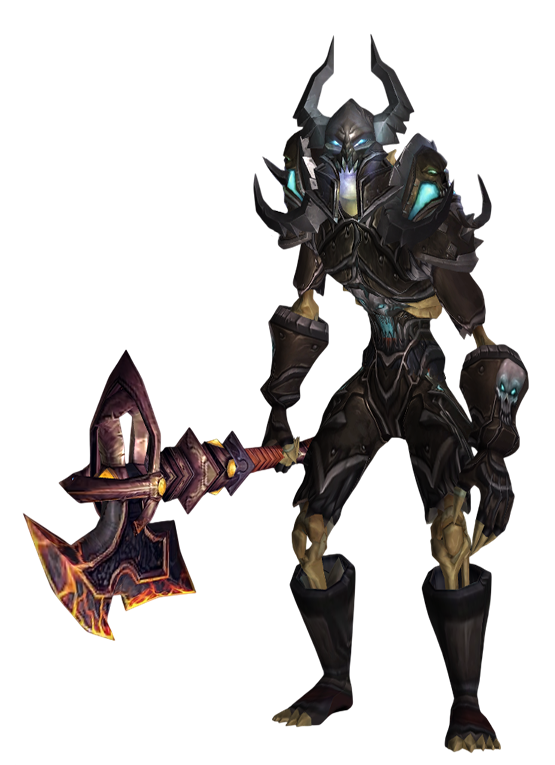
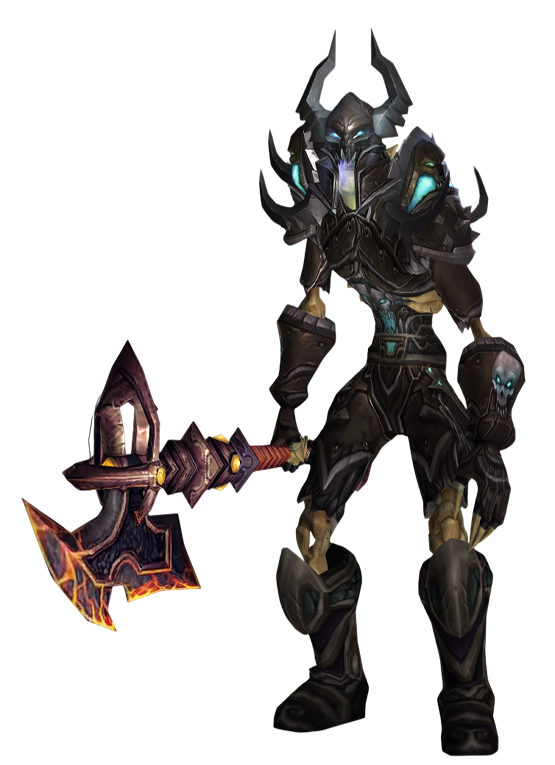
Добавил лк брони для дк

Changed region(s): [[0.0306, 0.0301, 0.9495, 0.9922]]

diff --git a/src/components/Cards.tsx b/src/components/Cards.tsx
@@ -608,6 +608,7 @@ const Cards = ({home, races, horde, alliance, raidsArmoursWarrior, raidsArmoursD
 					{ cloaks &&
 						<>
 							<h3 className="text-success text-center fw-bold display-4">Всего Плащей: {counterCardItems(dataCloaks)}</h3>
+							<h3 className="text-success text-center fw-bold display-4">Готово: {counterCardItemsDone(dataCloaks)}</h3>
 							<div className="card-box d-flex flex-wrap justify-content-center justify-content-xl-start mt-4">
 								{ renderCardItems(dataCloaks) }
 							</div>
